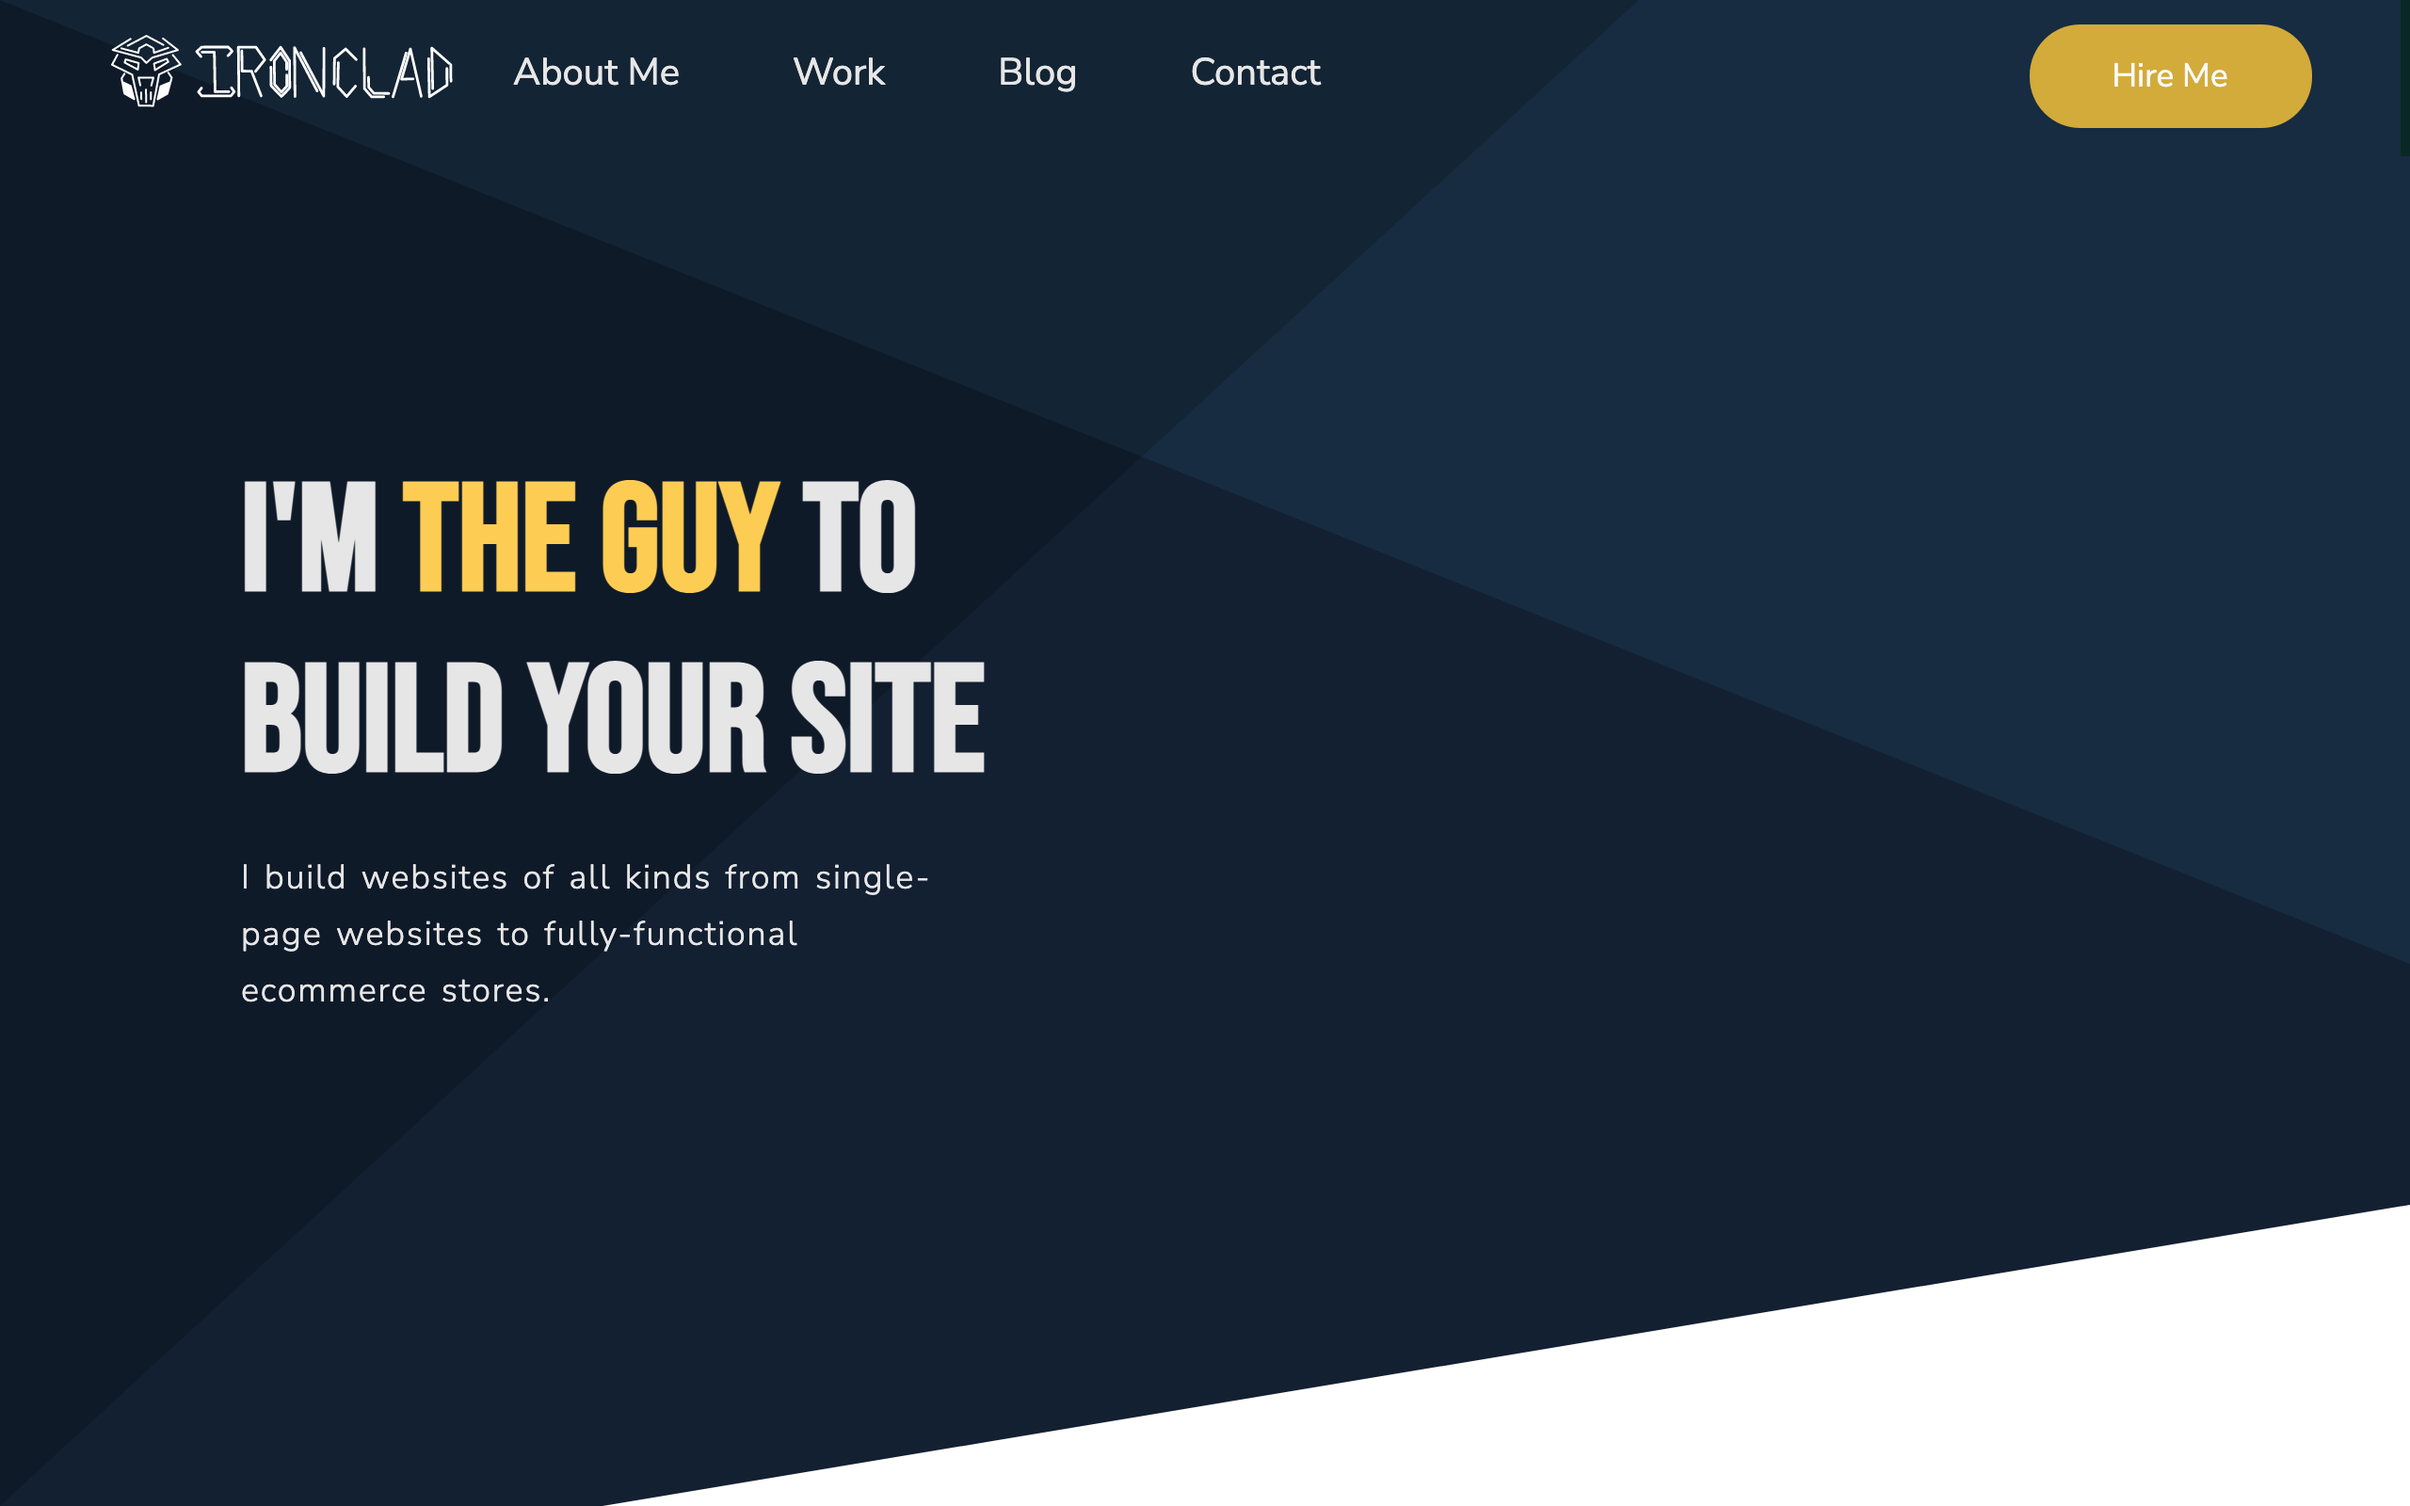
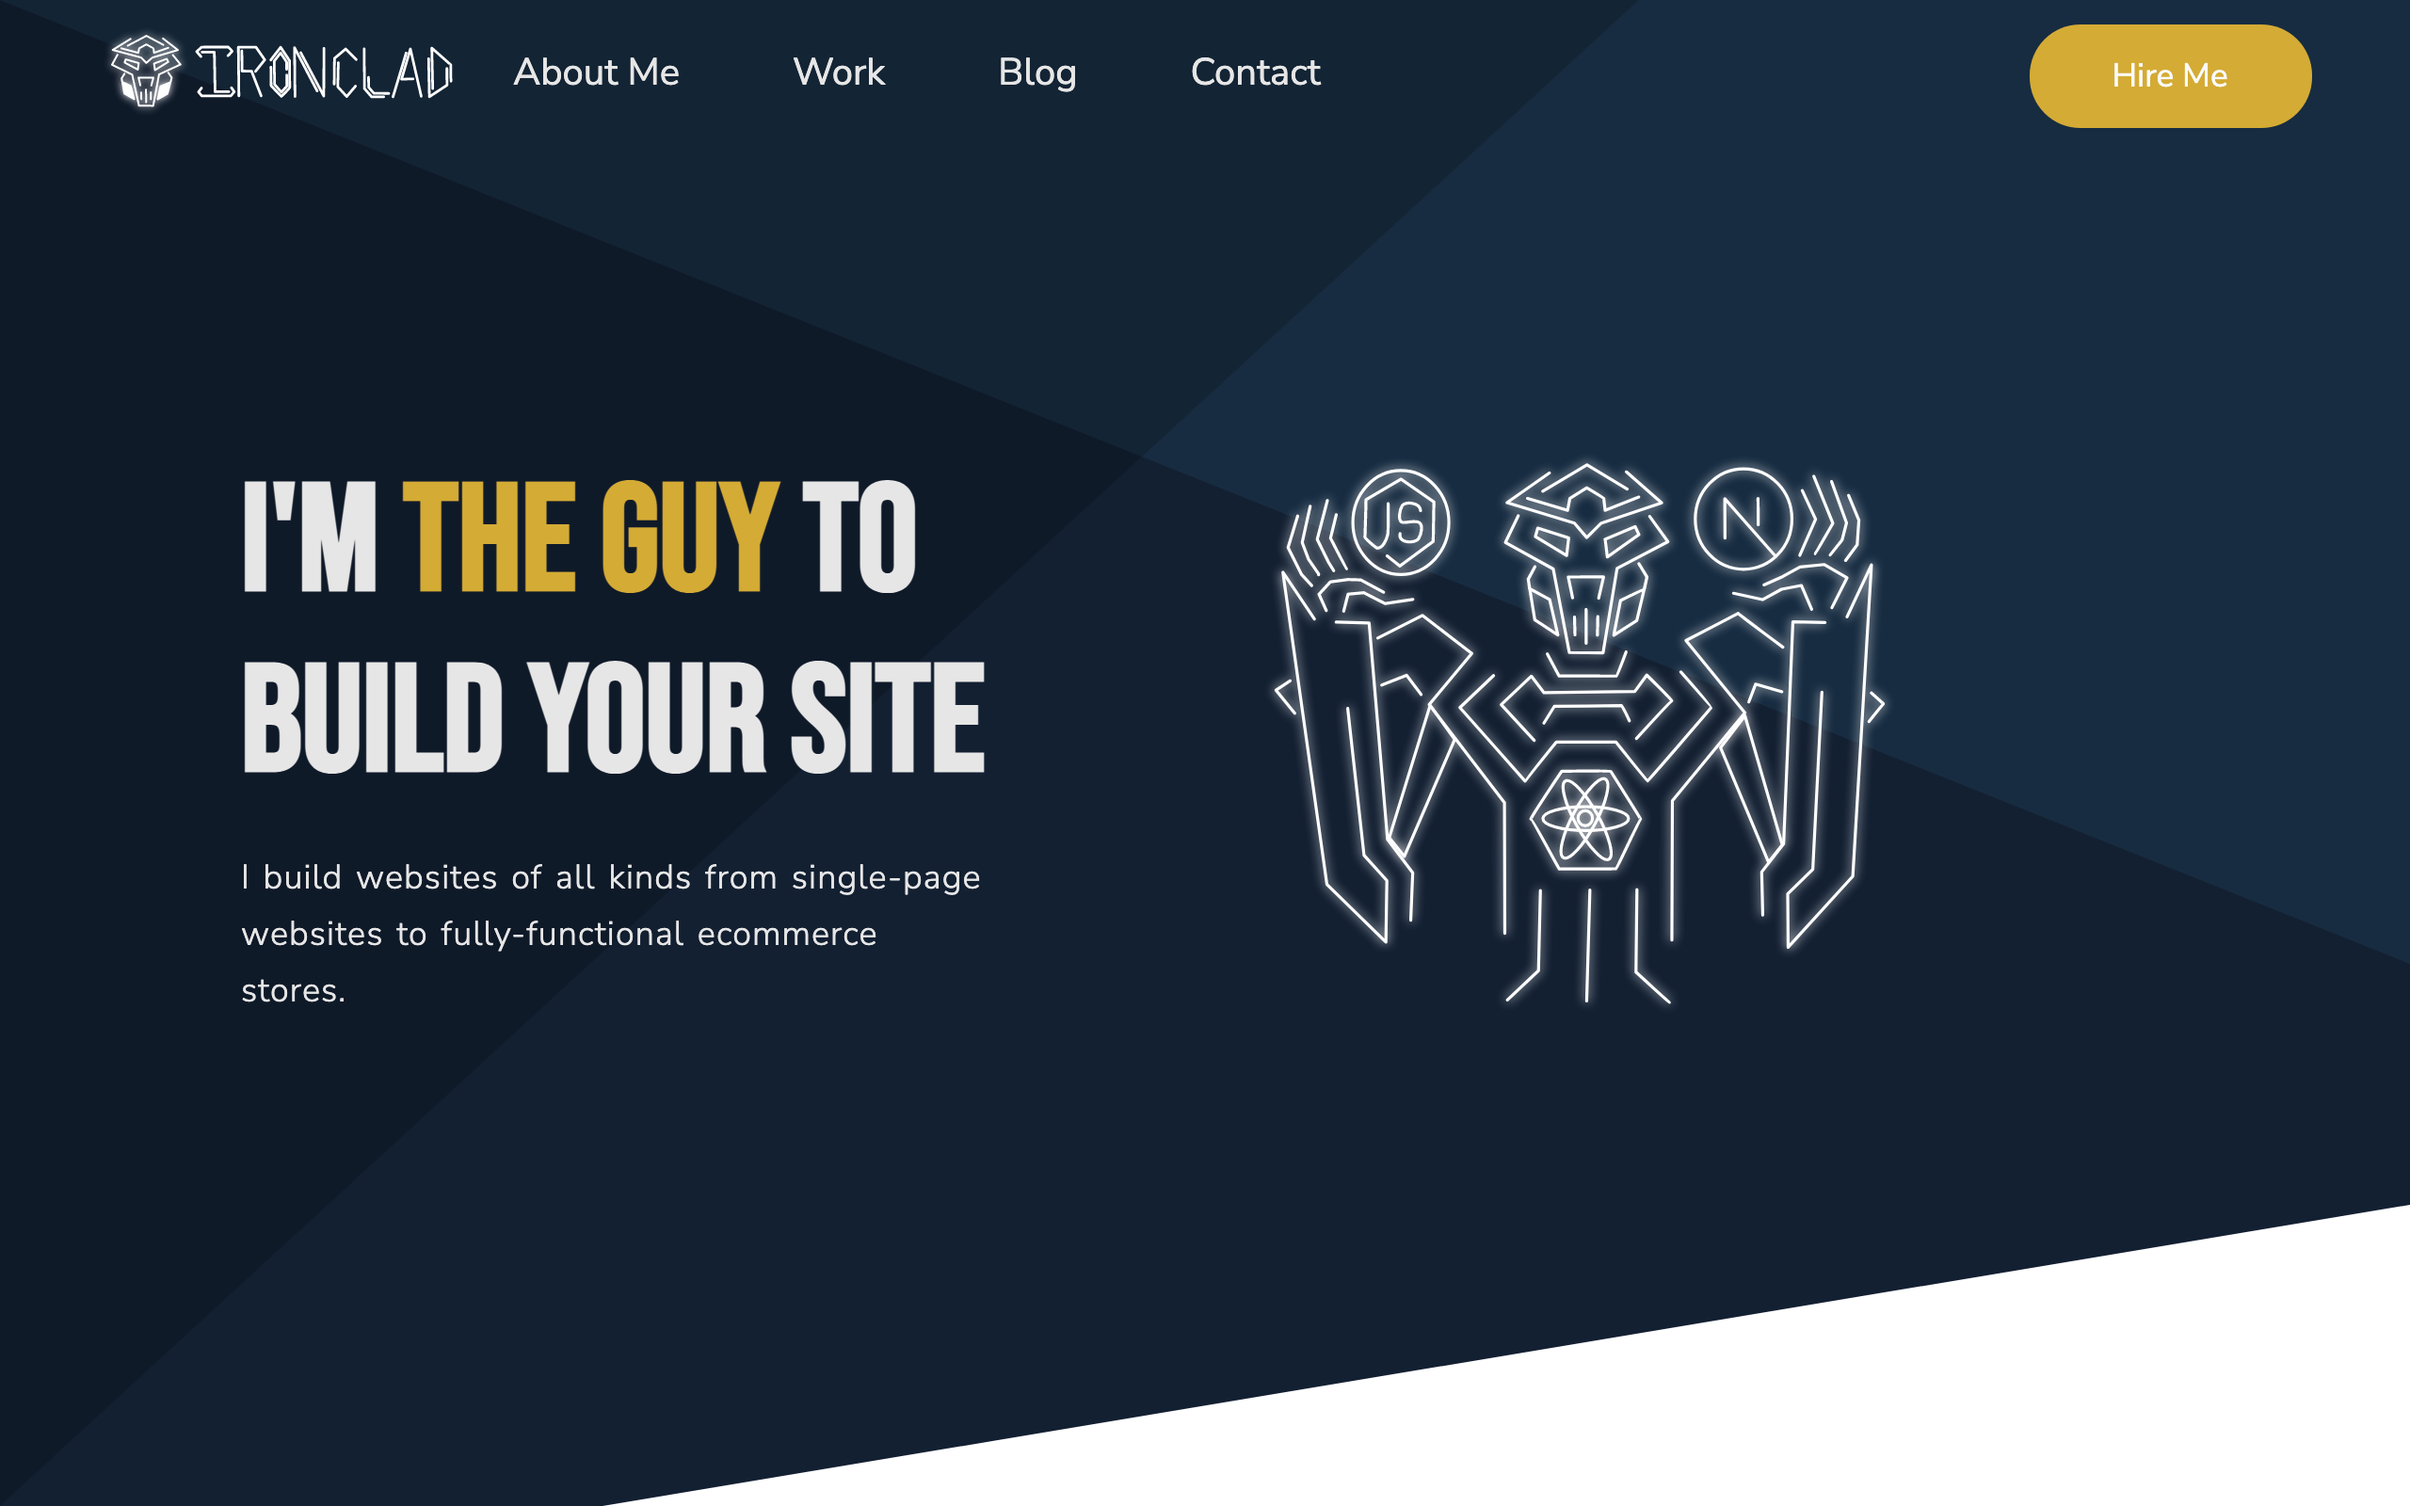
all hail bookie

diff --git a/styles/Home.module.css b/styles/Home.module.css
@@ -20,10 +20,11 @@
 }
 .illustration{
   width: 100%;
+  height: 70vh;
   align-self: center;
-  max-height: 400px;
+  max-height: 800px;
   stroke-dasharray: 100%;
-	animation: draw 2s ease-in;
+	animation: draw 5s ease-in;
 	animation-fill-mode: forwards;
 	padding: 0;
 	stroke-width: 1;
